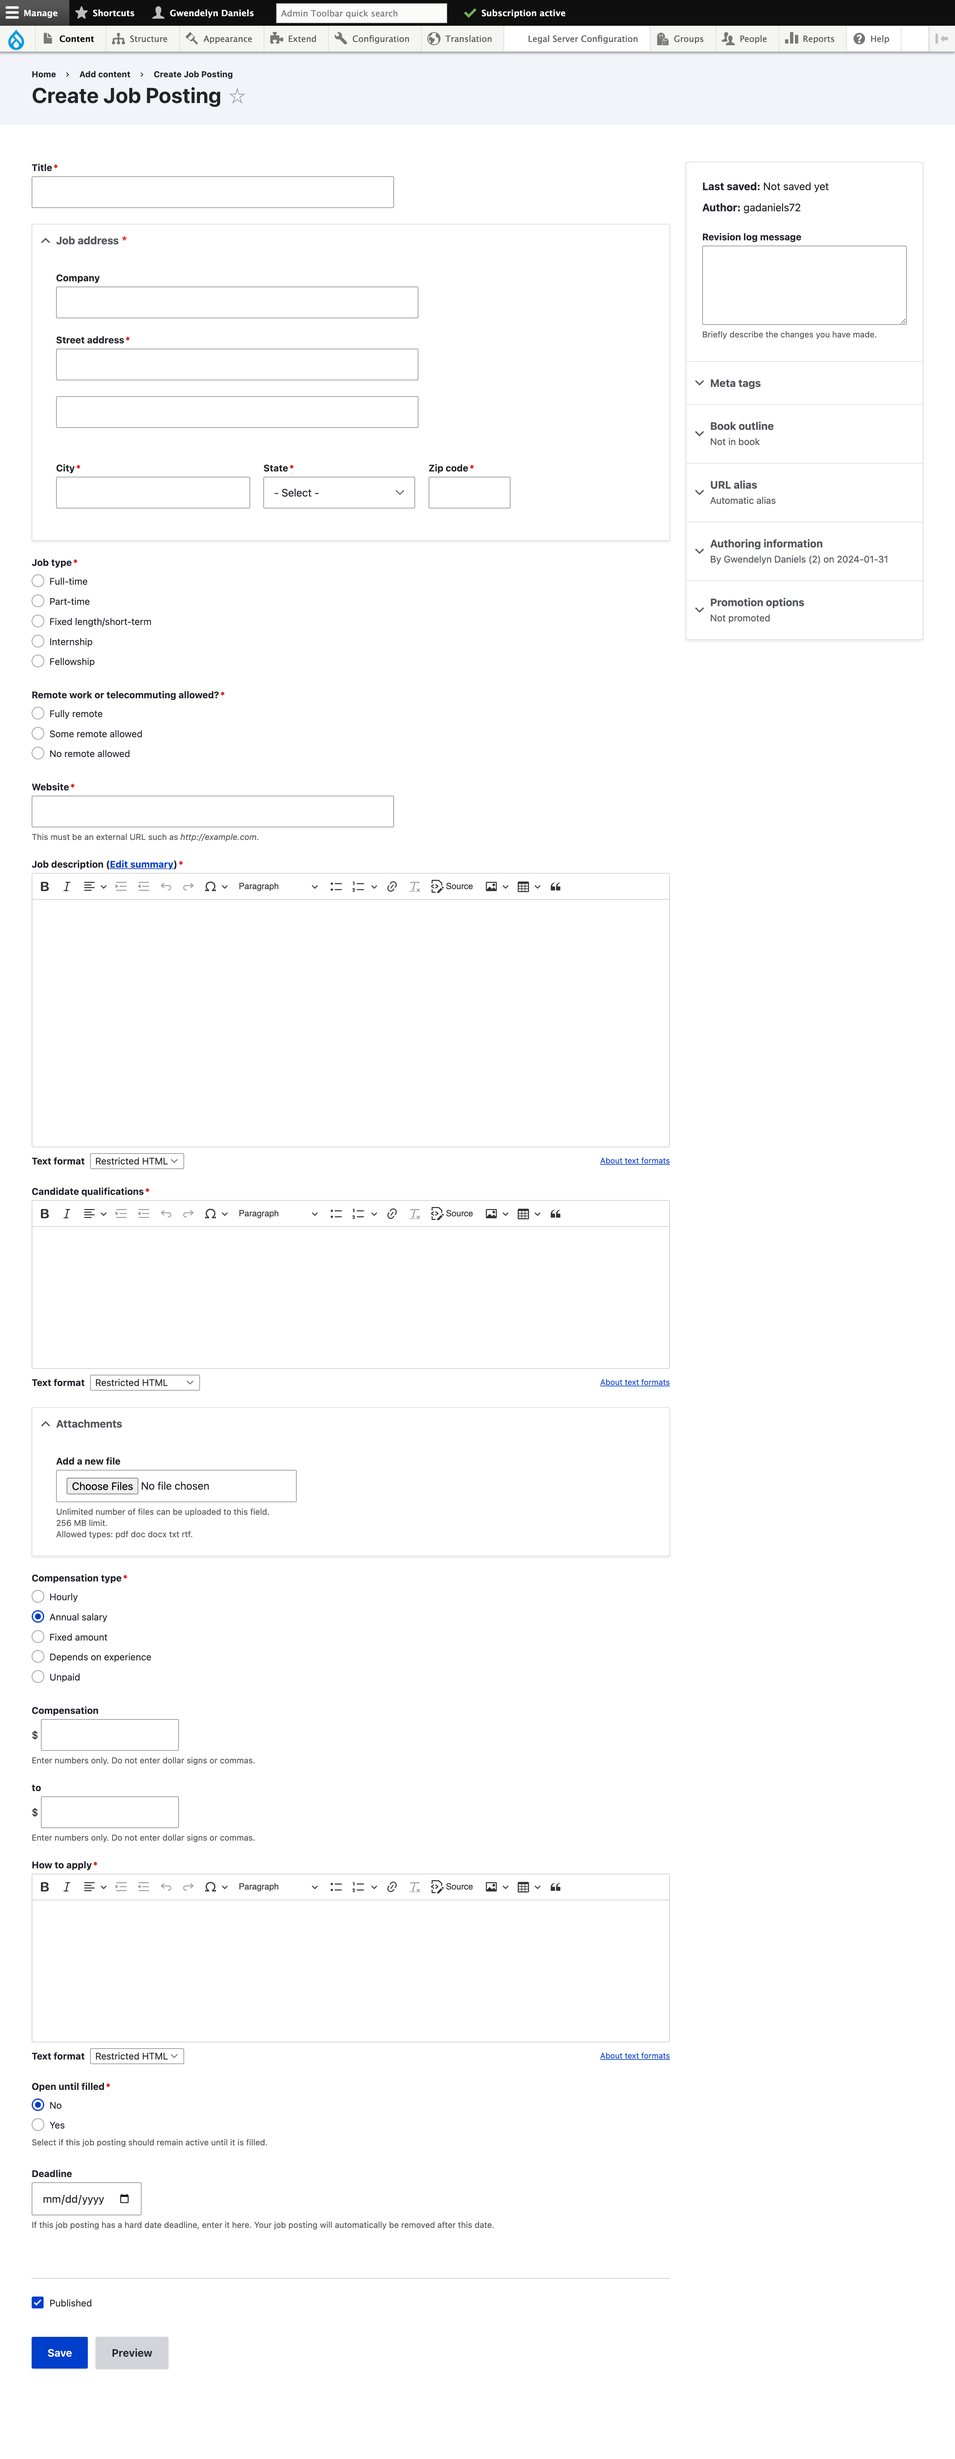
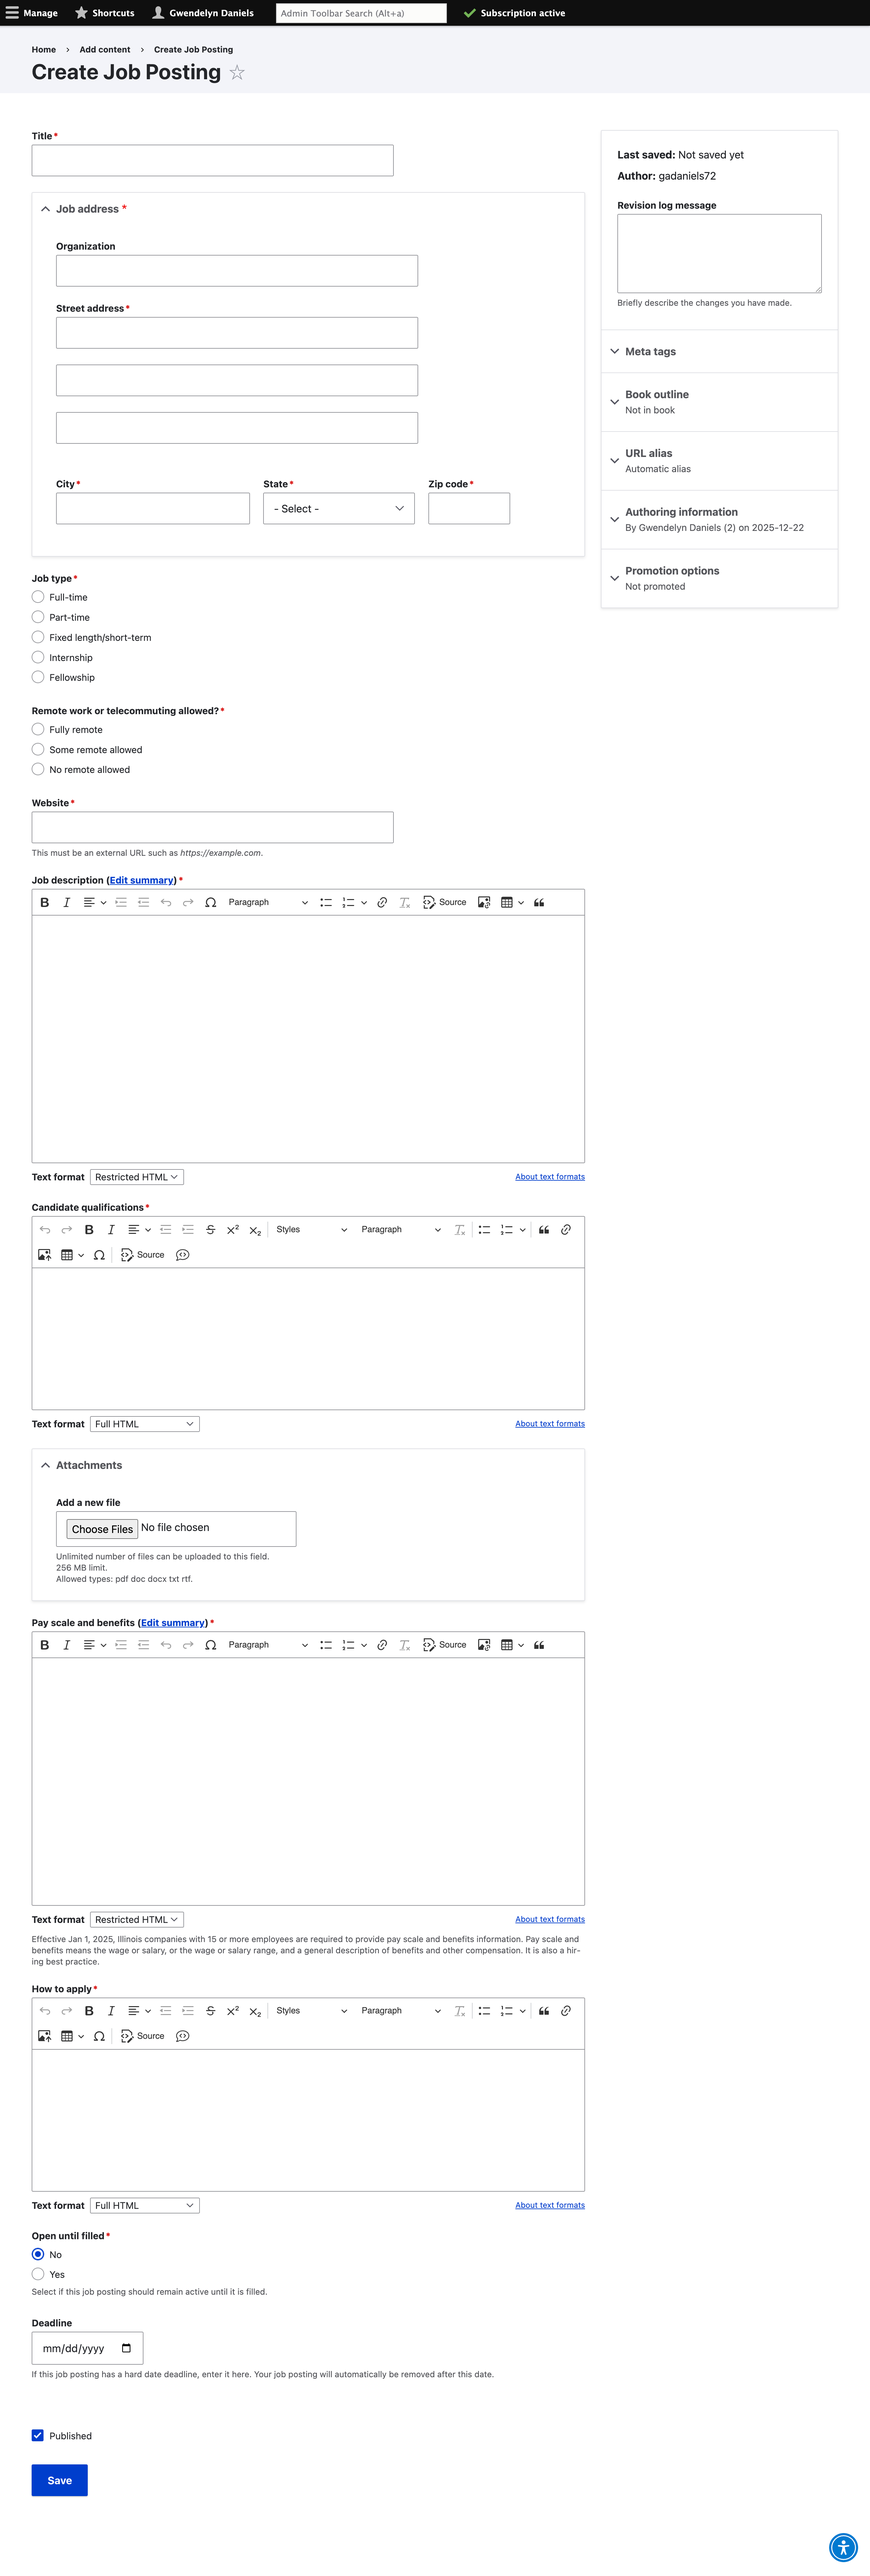
Updated job posting documentation

diff --git a/docs/source/jobs.rst b/docs/source/jobs.rst
@@ -12,18 +12,12 @@ To create a job posting
 * Enter the address for the organization
 * Indicate the job type - full-time, part-time, fixed length/short-term, internship, or fellowship
 * Indicate whether remote work or telecommuting is allowed
-
-.. note:: Add a text box to describe when some remote is allowed.
-
+* Describe any remote work rules
 * Add the organization's website address URL
 * Add the job description. Click the "Remove format" icon (T with a subscript x) to remove any random formatting
 * Add the candidate qualifications
 * Upload any attachments, such as a PDF of the job posting
-* Enter the compensation type
-* Enter the compensation range
-
-.. note:: Beginning December 2024, in order to comply with Illinois law, all job postings on IllinoisLegalAid will require a salary range (depends on experience will no longer be supported)
-
+* Add the pay scale and benefits
 * Provide information on how to apply
 * Set a deadline or mark "open until filled" to Yes
 * Ensure the "Published" box is checked
